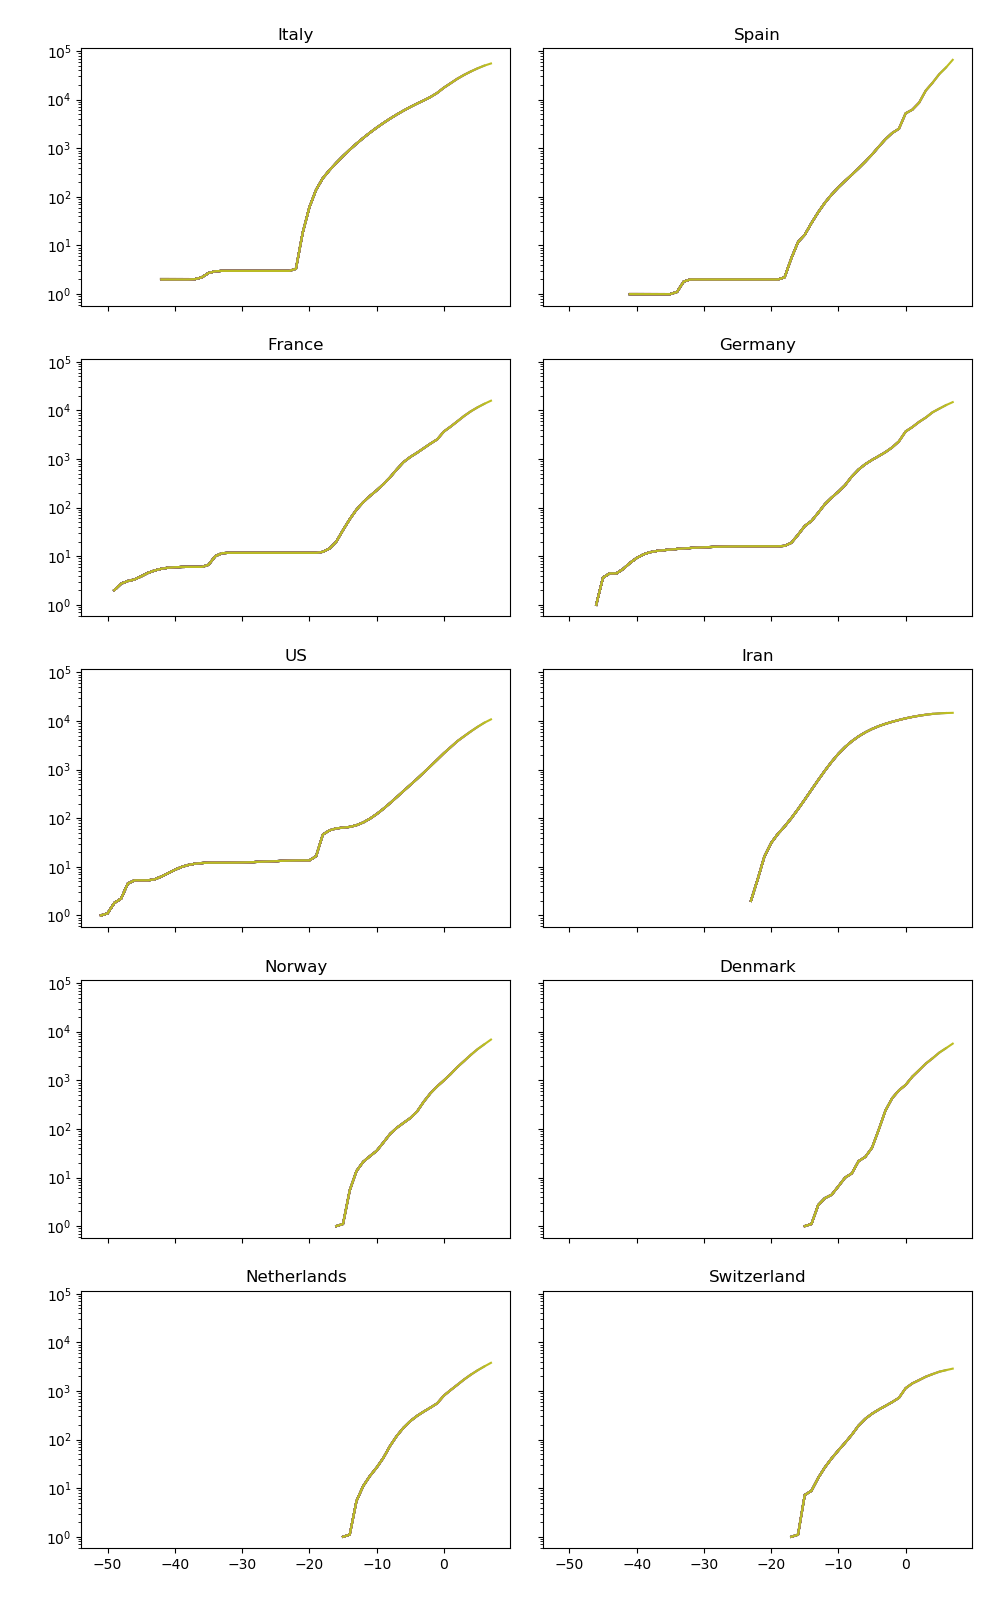
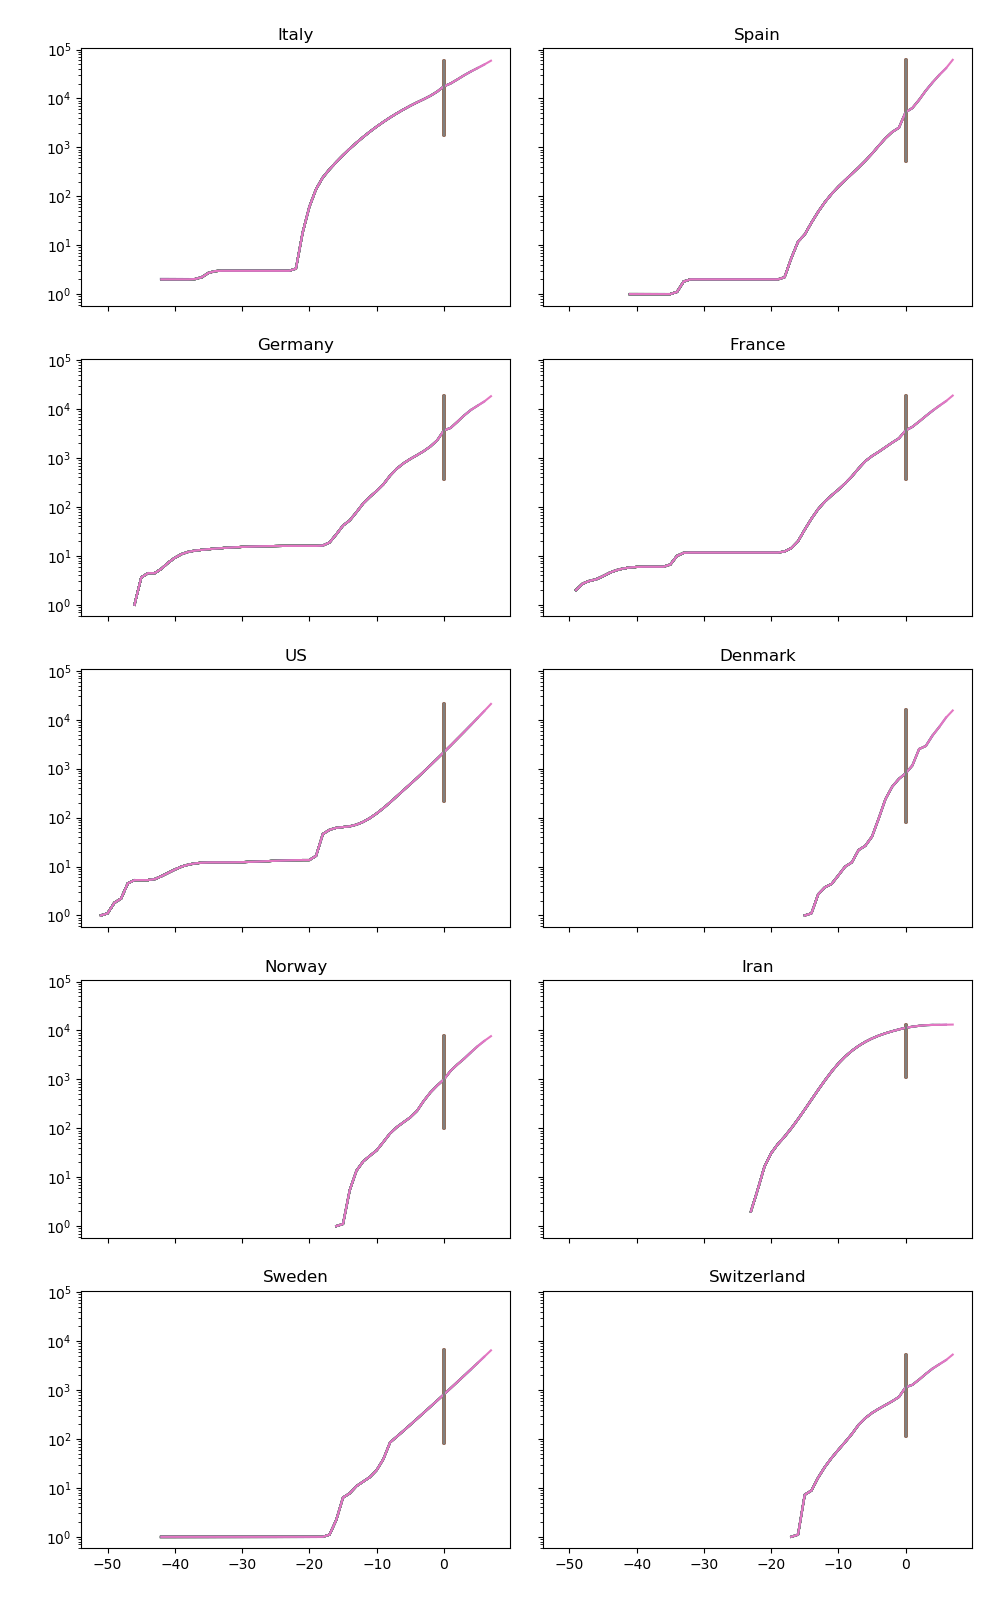
allowed sensible quadratic terms

diff --git a/predict.py b/predict.py
@@ -5,9 +5,87 @@ import matplotlib.pyplot as plt
 import numpy as np
 
 
+def polyfit(snippet,degree):
+    size = len(snippet)
+    basis = []
+    my_sample = []
+    for index in range(size+1):
+        my_sample.append(0.0)
+    for index in range(degree+1):
+        basisvec = []
+        for subind in range(size+1):
+            if index == 0:
+                basisvec.append(1)
+            else:
+                basisvec.append(subind**index)
+        basis.append(basisvec)
+        for prevind in range(len(basis)-1):
+            dpsum = 0.0
+            for subindex in range(size):
+                dpsum += basis[prevind][subindex] * basis[-1][subindex]
+            for subindex in range(size+1):
+                basis[-1][subindex] = basis[-1][subindex] - basis[prevind][subindex] * dpsum
+        dpsum = 0.0
+        for subindex in range(size):
+            dpsum += basis[-1][subindex] * basis[-1][subindex]
+        for subindex in range(size+1):
+            basis[-1][subindex] = basis[-1][subindex] / sqrt(dpsum)
+        dpsum = 0.0
+        for subind in range(size):
+            dpsum += snippet[subind]*basis[index][subind]
+        old_sample = []
+        for i in range(len(my_sample)):
+            old_sample.append(my_sample[i])
+        searching = True
+        factor = 1.0
+        while searching:
+            for i in range(len(my_sample)):
+                my_sample[i] = old_sample[i]
+            dpsum = 0.0
+            for subind in range(size):
+                dpsum += snippet[subind]*basis[index][subind]
+            for subind in range(size+1):
+                my_sample[subind] += factor * dpsum * basis[index][subind]
+            delta = my_sample[-1] - my_sample[-2]
+            if delta >= 0.0 and (index <=1 or delta <= 1.05*slope):
+                searching = False
+            else:
+                factor *= 0.95
+        if index == 1:
+            slope = factor * dpsum * (basis[1][1] - basis[1][0])
+
+    return my_sample
+
 import data_analyze
 big_outbreaks = 100
 data = data_analyze.my_aggregate_smoothlog
+
+def gen_samples(size):
+    samples = []
+    for slopeno in range(301):
+        slope = slopeno / 300.0 * 5.0
+        packet = []
+        for index in range(size+1):
+            packet.append(slope * index)
+        samples.append(packet)
+    for slopeno in range(31):
+        slope = slopeno / 30.0 * 2.0
+        for coeffno in range(31):
+            coeff = coeffno / 30.0 * 7.0 + 1.0
+            packet = []
+            for index in range(size+1):
+                packet.append(exp(index * slope-coeff))
+            samples.append(packet)
+            packet = []
+            for index in range(size+1):
+                packet.append(-exp(-index * slope-coeff))
+            samples.append(packet)
+    return samples
+
+
+
+
+
 
 def instate(value):
     cumlsum = 0
@@ -17,7 +95,7 @@ def instate(value):
         comparator *= 2
     return cumlsum
 
-silent = True
+silent = False
 
 
 
@@ -29,18 +107,21 @@ def matchscore(list1,list2):
         dotp += (list1[index] - list2[index])
     return [sum*len(list1) - (dotp * dotp),dotp / len(list1)]
 
-def find_analogue(thislist,datadict,neededspace=1):
+def find_analogue(thislist,datadict,samples,neededspace=1):
     score = 999999.0
     future = None
     size = len(thislist)
-    for index in range(301):
-        shortlist = []
-        for subind in range(size+1):
-            shortlist.append(subind*index/100)
+    using_real_data = False
+#    for index in range(301):
+#        shortlist = []
+#        for subind in range(size+1):
+#            shortlist.append(subind*index/100)
+    special_samples = [polyfit(thislist,1),polyfit(thislist,2)]
+    for shortlist in special_samples:
         matchdat = matchscore(thislist,shortlist)
         newfuture = shortlist[-1] + matchdat[1]
         ratejump = newfuture - thislist[-1] - (thislist[-1] - thislist[0])/len(thislist)
-        if (matchdat[0] < score) and (newfuture >= thislist[-1]) and (ratejump < 0.0):
+        if (matchdat[0] < score) and (newfuture >= thislist[-1]): #and (ratejump < 0.0):
             score = matchdat[0]
             future = newfuture
     linear_future = future
@@ -65,14 +146,22 @@ def find_analogue(thislist,datadict,neededspace=1):
                         if (matchdat[0] < score) and (newfuture >= thislist[-1]) and (ratejump < 1.0):
                             score = matchdat[0]
                             future = newfuture
+                            if not using_real_data:
+                                print("X",end='')
+                                using_real_data =True
                         elif (matchdat[0] < score) and (newfuture >=thislist[-1]) and ((future is not None) and (newfuture <= future)):
                             score = matchdat[0]
                             future = newfuture
+                            if not using_real_data:
+                                print("X",end='')
+                                using_real_data =True
     if (score > 4.0):
         return None
     if future is not None and linear_future is not None:
-        future = 0.50 * future + 0.50 * linear_future
+        future = 0.1 * future + 0.9 * linear_future
     return future
+
+samples = gen_samples(5)
 
 notable_labels = []
 for place in data_analyze.my_aggregate_data:
@@ -84,9 +173,9 @@ for place in data_analyze.my_aggregate_data:
         if reference < ln(big_outbreaks):
             stopped = True          #Too Few Cases To Forecast
         for loop in range(7):
-            shortlist = data[place][len(data[place])-5:len(data[place])]
+            shortlist = data[place][len(data[place])-7:len(data[place])]
             if not stopped:
-                outcome = find_analogue(shortlist,data,3)
+                outcome = find_analogue(shortlist,data,samples,3)
                 if outcome != None:
                     if not silent:
                         print(exp(outcome),end=', ',flush=True)
@@ -185,6 +274,9 @@ for key in toplot:
                 ymax = value
         axs[int(count/2),count%2].plot(x,y)
         axs[int(count/2),count%2].set_title(key)
+        today = exp(data[key][-8])/10
+        next  = exp(data[key][-1])
+        axs[int(count/2),count%2].plot([0,0],[today,next])
 
 
 fig.tight_layout(pad=2.0)

diff --git a/simulator.py b/simulator.py
@@ -1,0 +1,122 @@
+from math import *
+scenarios = [[0.05,1.0],[0.25,1.0],[0.5,1.0],[0.75,1.0]]
+limit = 500.0
+dt = 0.001
+for scenario in scenarios:
+    deathrate = scenario[0]
+    infectrate = scenario[1]
+    population = 1.0
+    virus = exp(-15)
+    time = -15
+    count = 0.0
+    infected = 0.0
+    infect_time = 0.0
+    while time < limit:
+        newpop = population - dt * infectrate * population * virus * (1.0 - deathrate)
+        newinf = dt * infectrate * population * virus * (1.0 - deathrate)
+        newvir = virus + dt * (population * virus - deathrate * virus)
+        population = newpop
+        virus = newvir
+        infected += newinf
+        infect_time += newinf * (time + 0.5 * dt)
+        time += dt * (1.0 - deathrate)
+        count += 1
+        #if count % 100 == 0 and time < 1.0:
+            #print(time,virus * exp(-time+10),population)
+    print(deathrate,infectrate,infected,infect_time/(infected))
+quit()
+class TorusGrid(object):
+    def __init__(self,sizex,sizey,const=0.0):
+        self.data = []
+        for i in range(sizex):
+            self.data.append([])
+            for j in range(sizey):
+                self.data[i].append(const)
+        self.sizex = sizex
+        self.sizey = sizey
+    def get(self,i,j):
+        truex = (i % sizex)
+        truey = (j % sizey)
+        if truex < 0:
+            truex += sizex
+        if truey < 0:
+            truey += sizey
+        return self.data[truex][truey]
+    def set(self,i,j,value):
+        truex = (i % sizex)
+        truey = (j % sizey)
+        if truex < 0:
+            truex += sizex
+        if truey < 0:
+            truey += sizey
+        self.data[truex][truey] = value
+    def clone(self,othergrid):
+        for i in range(self.sizex):
+            for j in range(self.sizey):
+                self.data[i][j] = othergrid.data[i][j]
+    def laplacian(self,i,j):
+        return -4 * self.get(i,j) + self.get(i+1,j) + self.get(i-1,j) + self.get(i,j+1) + self.get(i,j-1)
+    def sum(self):
+        value = 0.0
+        for i in range(self.sizex):
+            for j in range(self.sizey):
+                value += self.data[i][j]
+        return value
+
+
+sizex = 40
+sizey = 40
+dt = 0.01
+limit = 150.001
+
+
+
+population = TorusGrid(sizex,sizey,1.0)
+virus      = TorusGrid(sizex,sizey,0.0)
+virus.set(0,0,1.0)
+totalpop = population.sum()
+viruspop = virus.sum()
+
+temppop = TorusGrid(sizex,sizey)
+tempvir = TorusGrid(sizex,sizey)
+time = 0.0
+count = 0
+report = ''
+for scenario in scenarios:
+    deathrate = scenario[0]
+    infectrate = scenario[1]
+    population.__init__(sizex,sizey,1.0)
+    virus.__init__(sizex,sizey,0.0)
+    virus.set(0,0,1.0)
+    totalpop = population.sum()
+    viruspop = virus.sum()
+    time = 0.0
+    count = 0.0
+    infected = 0.0
+    weighted_infected = 0.0
+    while time < limit and viruspop > 0.5:
+        count += 1
+        for i in range(sizex):
+            for j in range(sizey):
+                thispop = population.get(i,j)
+                thisvir = virus.get(i,j)
+                thisvlp = virus.laplacian(i,j)
+                newvirus = thisvir + dt * (thisvlp + thispop * thisvir - deathrate * thisvir)
+                newinfected = thispop * thisvir * dt * infectrate
+                infected += newinfected
+                weighted_infected += time * newinfected
+                newpop   = thispop + dt * (-thispop * thisvir)
+                tempvir.set(i,j,newvirus)
+                temppop.set(i,j,newpop)
+        time += dt
+        population.clone(temppop)
+        virus.clone(tempvir)
+        if count % 500 == 0:
+            viruspop = virus.sum()
+            display = '%7.3f %11.5f %11.8f' % (time,viruspop,(totalpop - population.sum())/totalpop)
+            print(display)
+    display = '%5.2f %5.2f %11.8f\n' % (deathrate,weighted_infected/infected,(totalpop - population.sum())/totalpop)
+    print(display,end='')
+    report += display
+
+print(report)
